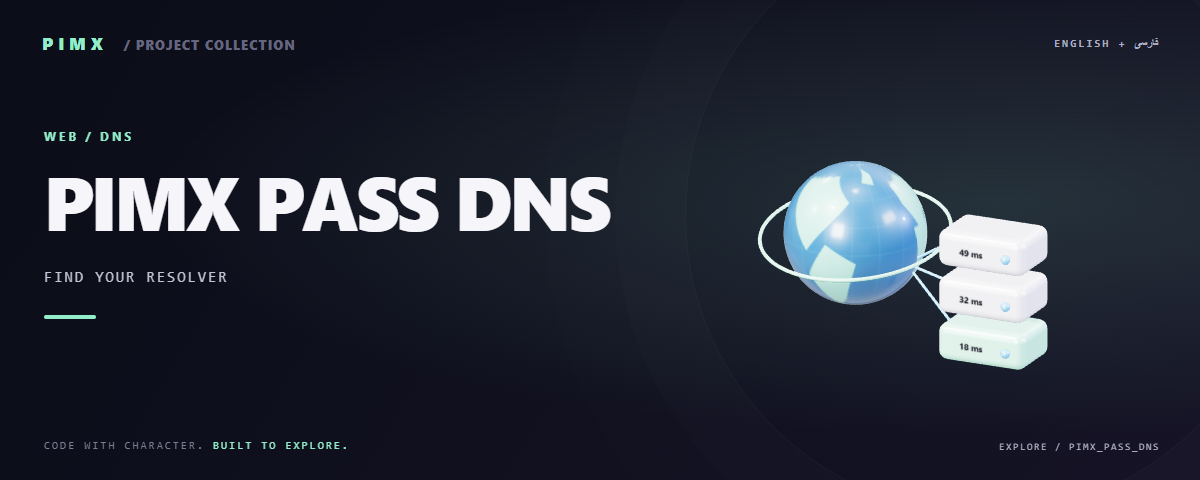
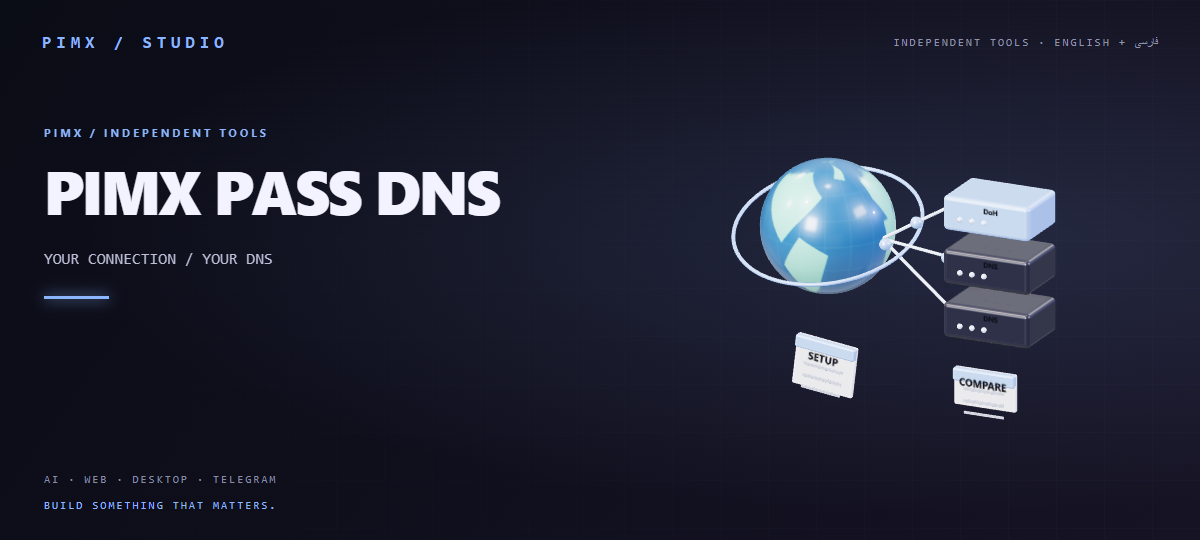
docs: replace site screenshots with original animated 3D artwork

diff --git a/README.fa.md b/README.fa.md
@@ -1,6 +1,6 @@
 <div align="center">
 
-<a href="https://pimxpassdns.pages.dev/"><img src="assets/readme/hero.gif" width="1200" alt="PIMX PASS DNS: animated project artwork" /></a>
+<a href="https://pimxpassdns.pages.dev/"><img src="assets/readme/hero.gif" width="1200" alt="PIMX PASS DNS: original animated 3D illustration" /></a>
 
 [English](README.md) · [فارسی](README.fa.md) · [Live website ↗](https://pimxpassdns.pages.dev/)
 
@@ -11,10 +11,6 @@
 # PIMX PASS DNS
 
 سرویسهای DNS را روی اینترنت خودت با درخواست واقعی DNS-over-HTTPS مقایسه کن؛ با شبکهٔ سهبعدی زنده، مقایسههای ذخیرهشده و راهنمای تنظیم دستگاه. تاریخچهٔ هر شبکه را نگه دار، DNS دلخواه اضافه کن و از نتایج خروجی بگیر.
-
-<a href="https://pimxpassdns.pages.dev/"><img src="assets/readme/redesign.gif" width="1200" alt="پیشنمایش رابط بازطراحیشده: PIMX PASS DNS" /></a>
-
-[پیشنمایش رابط بازطراحیشده · PNG](assets/readme/redesign.png) · [Static artwork](assets/readme/hero.png)
 
 ## امکانات
 

diff --git a/README.md b/README.md
@@ -1,6 +1,6 @@
 <div align="center">
 
-<a href="https://pimxpassdns.pages.dev/"><img src="assets/readme/hero.gif" width="1200" alt="PIMX PASS DNS: animated project artwork" /></a>
+<a href="https://pimxpassdns.pages.dev/"><img src="assets/readme/hero.gif" width="1200" alt="PIMX PASS DNS: original animated 3D illustration" /></a>
 
 [English](README.md) · [فارسی](README.fa.md) · [Live website ↗](https://pimxpassdns.pages.dev/)
 
@@ -11,10 +11,6 @@
 # PIMX PASS DNS
 
 Compare DNS resolvers on your own connection with real DNS-over-HTTPS queries, a live 3D network, saved comparisons and device setup guides. Keep network-specific history, import custom resolvers and export results.
-
-<a href="https://pimxpassdns.pages.dev/"><img src="assets/readme/redesign.gif" width="1200" alt="Preview of the redesigned interface: PIMX PASS DNS" /></a>
-
-[Preview of the redesigned interface · PNG](assets/readme/redesign.png) · [Static artwork](assets/readme/hero.png)
 
 ## What you can do
 
